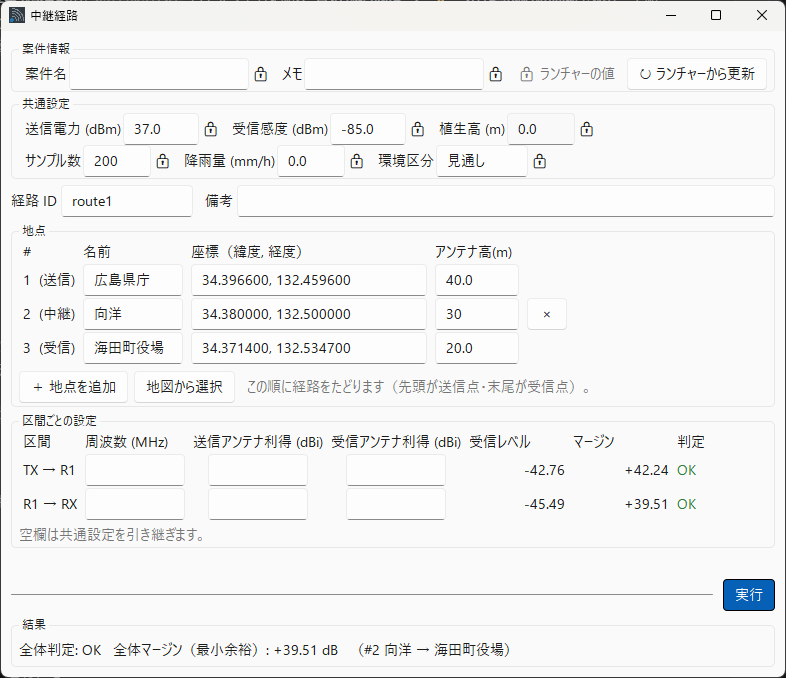
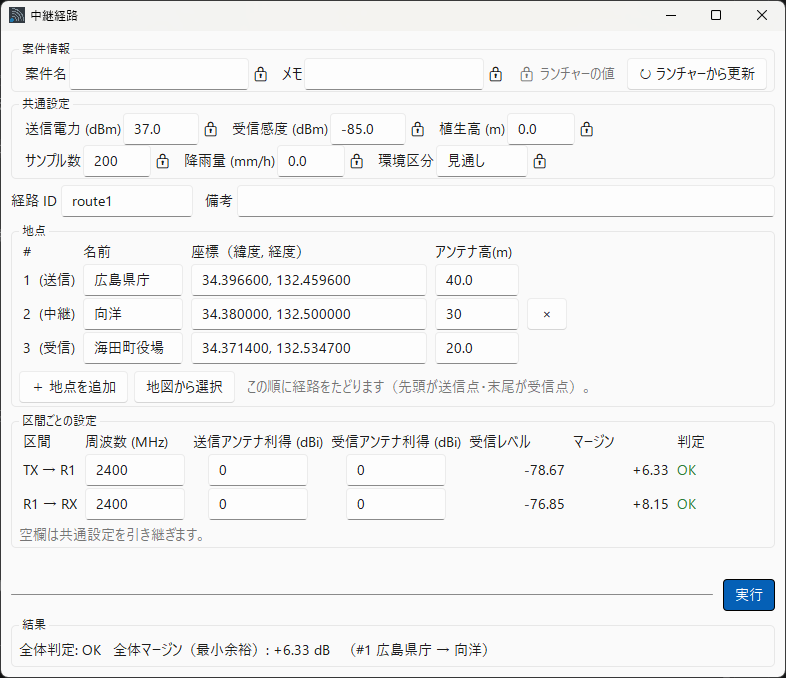
docs: 条件探索と中継経路の画像を足す（I-017・5 枚で完成）
「使い方 —」の 4 節すべてに絵が揃った。絵が無かった 2 つは**新しい機能の側**
（条件探索 2.5・中継経路 2.6）＝言葉だけで想像しにくいほうに絵が無かった。

**2 枚は地続き**＝条件探索で「2.4GHz・利得 0dBi では −5.66dB で届かない」と
分かった回線を、向洋に中継を置いて成立させる（区間 +6.33 / +8.15 → 全体 OK）。
中継機能の存在理由がそのまま絵になっている。実測値と画面は一致。

置き場所は**開発者 README とバイナリ README だけ**（`README.md` は 3 枚のまま＝
入口を増やすと本文が下へ押し下がる）。**ランチャーは撮らない**＝版が写る唯一の
窓で、撮るとリリースのたびに古い版が README に残る。

画像は先の 3 枚と同じく RGB 化＋可逆最適化（132 → 110 KB）。同梱物にも追加し、
新設ゲートが参照と同梱の食い違いを見張る。

diff --git a/README_binary_ja.md b/README_binary_ja.md
@@ -383,6 +383,8 @@ path02,"34.55, 132.42","34.52, 132.39",20.0,15.0,,,,サブ回線
 
 ## 使い方 — 条件探索（比較 / スイープ）
 
+![条件探索の比較画面。1 本の経路に対し周波数と利得を変えた 4 条件の受信レベルとマージンが並び、最後の条件だけ NG になっている](docs/images/shot_scenario.png)
+
 **1 本の確定した経路を、条件を変えて掘る**ための画面です。ランチャーの「条件探索」ボタンで開きます。経路（座標）とサンプル数はランチャーの値に固定され、**地形データの取得は 1 回だけ**で、そのうえで条件を N 通り計算します（同じ経路で何度も回しても DEM の再取得は起きません）。
 
 上部のトグルで 2 つのモードを切り替えます。ランチャー側で座標やパラメータを変えたときは、右上の **「↻ ランチャーから更新」** で取り込み直してください（**押すまで画面の値のまま計算します**＝画面と計算がずれません）。
@@ -415,6 +417,8 @@ path02,"34.55, 132.42","34.52, 132.39",20.0,15.0,,,,サブ回線
 ---
 
 ## 使い方 — 中継経路
+
+![中継経路の画面。送信点・中継点・受信点の 3 地点と、区間ごとの受信レベル・マージン・判定が表に返っている](docs/images/shot_multihop.png)
 
 **1 本の回線を中継点で継ぐ**ときの画面です。ランチャーの **中継経路** ボタンで開きます。山を挟んで直接は届かない 2 点を、見通しの利く尾根などに中継点を置いて繋ぐ検討に使います。
 

diff --git a/README_ja.md b/README_ja.md
@@ -534,6 +534,8 @@ path02,"34.55, 132.42","34.52, 132.39",20.0,15.0,,,,サブ回線
 
 ## 使い方 — 条件探索（比較 / スイープ）
 
+<img src="docs/images/shot_scenario.png" width="620" alt="条件探索の比較画面。1 本の経路に対し周波数と利得を変えた 4 条件の受信レベルとマージンが並び、最後の条件だけ NG になっている">
+
 ランチャーの **条件探索** ボタンで開きます（`views/scenario.py`）。**1 本の確定した経路を、条件を変えて掘る**画面で、計算側は `core/scenario.py` が持ちます。操作手順は [README_binary_ja.md](README_binary_ja.md) が詳しいので、ここでは実装の勘所を挙げます。
 
 - **地形は 1 回だけ取る**: `run_scenario()` は FETCH → CALC（→ RENDER）の順に進み、取得は先頭で 1 回。`_fetch_sync()` は `fetch_elevations_cached()` を通すので、同じ経路で条件を振り直しても DEM の再取得は起きません（＝この画面の使い方そのもの）。
@@ -546,6 +548,8 @@ path02,"34.55, 132.42","34.52, 132.39",20.0,15.0,,,,サブ回線
 ---
 
 ## 使い方 — 中継経路
+
+<img src="docs/images/shot_multihop.png" width="620" alt="中継経路の画面。送信点・中継点・受信点の 3 地点と、区間ごとの受信レベル・マージン・判定が表に返っている">
 
 ランチャーの **中継経路** ボタンで開きます（`views/multihop.py`）。**再生中継**（受けて送り直す）前提で、区間ごとに独立したリンクバジェットを計算します。モデルと実行は `report/multihop.py`。
 

diff --git a/README_en.md b/README_en.md
@@ -535,6 +535,8 @@ On completion, the following are saved to `results/batch_YYYYMMDD_HHMMSS/`:
 
 ## Usage — Condition Explorer (Compare / Sweep)
 
+<img src="docs/images/shot_scenario.png" width="620" alt="条件探索の比較画面。1 本の経路に対し周波数と利得を変えた 4 条件の受信レベルとマージンが並び、最後の条件だけ NG になっている">
+
 Open it with the **Condition Explorer** button in the launcher (`views/scenario.py`). It **takes one fixed path and digs into it under different conditions**; the computation lives in `core/scenario.py`. For the step-by-step operation see [README_binary_en.md](README_binary_en.md) — what follows is the implementation side.
 
 - **Terrain is fetched once.** `run_scenario()` walks FETCH → CALC (→ RENDER), and the fetch happens once at the front. `_fetch_sync()` goes through `fetch_elevations_cached()`, so re-running the same path with different conditions never re-downloads DEM — which is exactly how this screen is used.
@@ -547,6 +549,8 @@ Open it with the **Condition Explorer** button in the launcher (`views/scenario.
 ---
 
 ## Usage — Relay Route
+
+<img src="docs/images/shot_multihop.png" width="620" alt="中継経路の画面。送信点・中継点・受信点の 3 地点と、区間ごとの受信レベル・マージン・判定が表に返っている">
 
 Open it with the **Relay Route** button in the launcher (`views/multihop.py`). It assumes **regenerative relaying** (receive, then transmit again), so each section gets its own independent link budget. The model and the runner live in `report/multihop.py`.
 

diff --git a/README_binary_en.md b/README_binary_en.md
@@ -383,6 +383,8 @@ On completion, the following are saved to `results/batch_YYYYMMDD_HHMMSS/`:
 
 ## Usage — Condition Explorer (Compare / Sweep)
 
+![条件探索の比較画面。1 本の経路に対し周波数と利得を変えた 4 条件の受信レベルとマージンが並び、最後の条件だけ NG になっている](docs/images/shot_scenario.png)
+
 A screen for **taking one fixed path and digging into it under different conditions**. Open it with the "Condition Explorer" button in the launcher. The path (coordinates) and sample count are fixed to the launcher values, so **terrain is fetched only once** and the N conditions are then computed on top of it (repeat runs on the same path do not re-fetch DEM).
 
 The toggle at the top switches between two modes. After changing coordinates or parameters in the launcher, press **"↻ From Launcher"** at the top right to pull them in (**until you do, the run uses the values shown on screen** — what you see is what is computed).
@@ -415,6 +417,8 @@ The following are saved to `results/scenario_YYYYMMDD_HHMMSS/`:
 ---
 
 ## Usage — Relay Route
+
+![中継経路の画面。送信点・中継点・受信点の 3 地点と、区間ごとの受信レベル・マージン・判定が表に返っている](docs/images/shot_multihop.png)
 
 For **one link carried over relay points**. Open it with the **Relay Route** button in the launcher. Use it when two points cannot see each other directly and a ridge (or another site) in between can carry the traffic.
 
